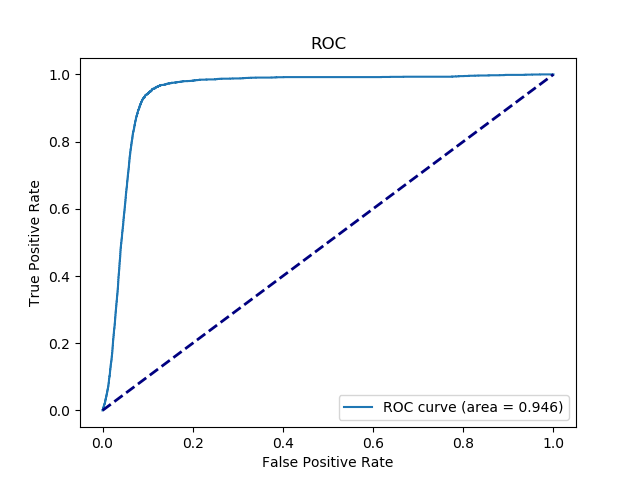
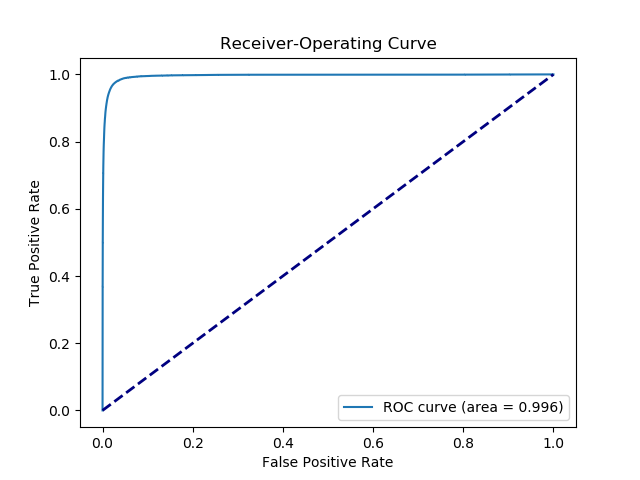
Fix Bug of Error train and test batch

Changed region(s): [[0.1562, 0.0625, 0.7812, 0.8438], [0.8438, 0.8438, 0.875, 0.875]]

diff --git a/DDIQuery/drug2vector.py b/DDIQuery/drug2vector.py
@@ -63,10 +63,10 @@ def updateweight(target, train_feat, test_feat, train_ids, test_ids):
 
 if __name__ == "__main__":
     radius = 1
-    epoch = 100
+    epoch = 150
     train_repos, test_repos = loadnormaldata(radius)
     onehot_size = train_repos.onehot_size
-    embed_size = 100
+    embed_size = 60
     
     model = Net(onehot_size, embed_size)
     
@@ -98,22 +98,35 @@ if __name__ == "__main__":
         sigmoid, pred, embed = model(test_input)
         #loss = criterion(log_softmax, test_output_seq)
 
-        out = sigmoid.data.numpy()
+        out = pred.data.numpy()
         labels = test_output_onehot.data.numpy()
         #order = np.flip(out.argsort(axis=1), axis=1)
         #print(labels.shape, pred.shape)
-        auc = metrics.roc_auc_score(labels.flatten(), pred.data.numpy().flatten())
-        print(i, auc)
+        auc = metrics.roc_auc_score(labels.flatten(), out.flatten())
+        aupr = metrics.average_precision_score(labels.flatten(), out.flatten())
+        print(i, auc, aupr)
 
         if i == epoch - 1:
             fpr, tpr, threshold = metrics.roc_curve(labels.flatten(), pred.data.numpy().flatten())
+            #prec, rec, threshold = metrics.precision_recall_curve(labels.flatten(), pred.data.numpy().flatten())
             plt.plot(fpr, tpr, label='ROC curve (area = %0.3f)' % auc)
-            plt.title('ROC')
+            #plt.plot(rec, prec, label='PR curve (area = %0.3f)' % aupr)
+            plt.title('Receiver-Operating Curve')
             plt.xlabel('False Positive Rate')
             plt.ylabel('True Positive Rate')
             plt.legend(loc='lower right')
             plt.plot([0, 1], [0, 1], color='navy', lw=2, linestyle='--')
             plt.savefig('ROC.png')
+            plt.clf()
+            
+            prec, rec, threshold = metrics.precision_recall_curve(labels.flatten(), pred.data.numpy().flatten())
+            plt.plot(rec, prec, label='PR curve (area = %0.3f)' % aupr)
+            plt.title('Precision-Recall Curve')
+            plt.xlabel('Recall')
+            plt.ylabel('Precision')
+            plt.legend(loc='lower right')
+            #plt.plot([0, 1], [0, 1], color='navy', lw=2, linestyle='--')
+            plt.savefig('PRC.png')
         
         train_repos.reset()
 

diff --git a/DDIQuery/batch.py b/DDIQuery/batch.py
@@ -77,7 +77,7 @@ def dilute(adjcent_matrix, step):
 
 
 def erosion(adjcent_matrix, positions):
-    m  = adjcent_matrix
+    m  = np.copy(adjcent_matrix)
     for row, col in positions:
         m[row, col] = 0
     return m
@@ -109,7 +109,7 @@ def loadnormaldata(radius):
     #adjcent_matrix, _, f1, f2, f3, f4 = loadBMCData("data/DDI.mat")
     adjcent_matrix = loadBMCData("data/DDI.mat")
 
-    test_posi = choosenormaltest(adjcent_matrix, 0.1)
+    test_posi = choosenormaltest(adjcent_matrix, 0.15)
 
     test_matrix = np.zeros(shape=adjcent_matrix.shape)
     for row, col in test_posi:
@@ -126,9 +126,12 @@ def loadnormaldata(radius):
 
     test_in = np.where(test_matrix.sum(axis=1) > 0)
     test_out = np.where(test_matrix.sum(axis=0) > 0)    
+
+    print("original number of 1: " + str(np.where(train_matrix == 1)[0].size))
+    print("test number of 1: " + str(np.where(adjcent_matrix == 1)[0].size))
     
     return Repository(train_matrix, train_in, train_out, onehot, feat), \
-            Repository(test_matrix, test_in, test_out, onehot, feat)
+            Repository(adjcent_matrix, test_in, test_out, onehot, feat)
 
 def loadwholedata(radius):
     adjcent_matrix, _, f1, f2, f3, f4 = loadBMCData("data/DDI.mat")
@@ -151,7 +154,7 @@ def loadwholedata(radius):
     test_out = np.where(test_matrix.sum(axis=0) > 0)    
     
     return Repository(train_matrix, train_in, train_out, onehot, feat), \
-            Repository(test_matrix, test_in, test_out, onehot, feat)
+            Repository(adjcent_matrix, test_in, test_out, onehot, feat)
 
 def loadblinddata(radius):
     adjcent_matrix, _, f1, f2, f3, f4 = loadBMCData("data/DDI.mat")
